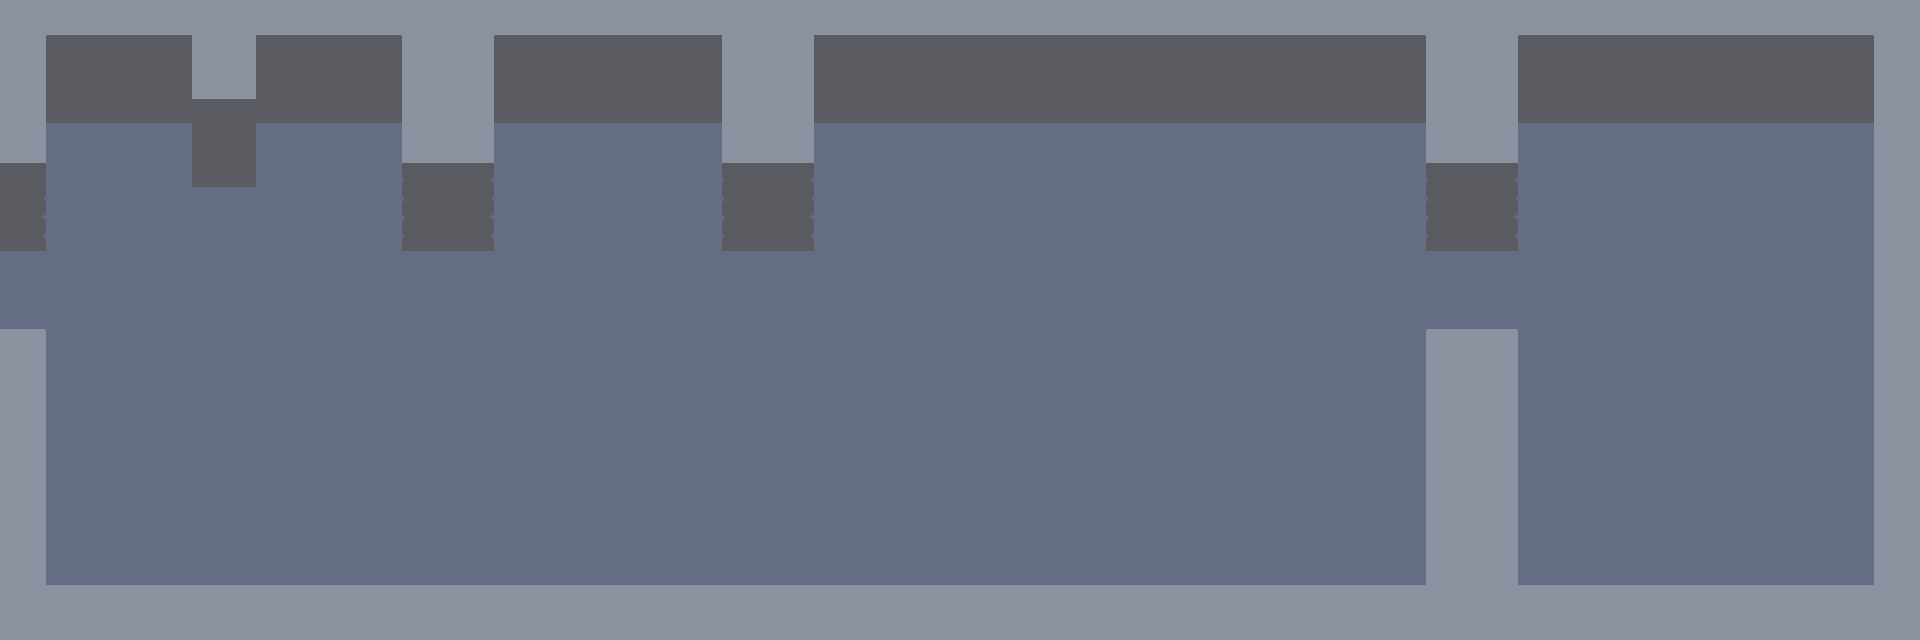
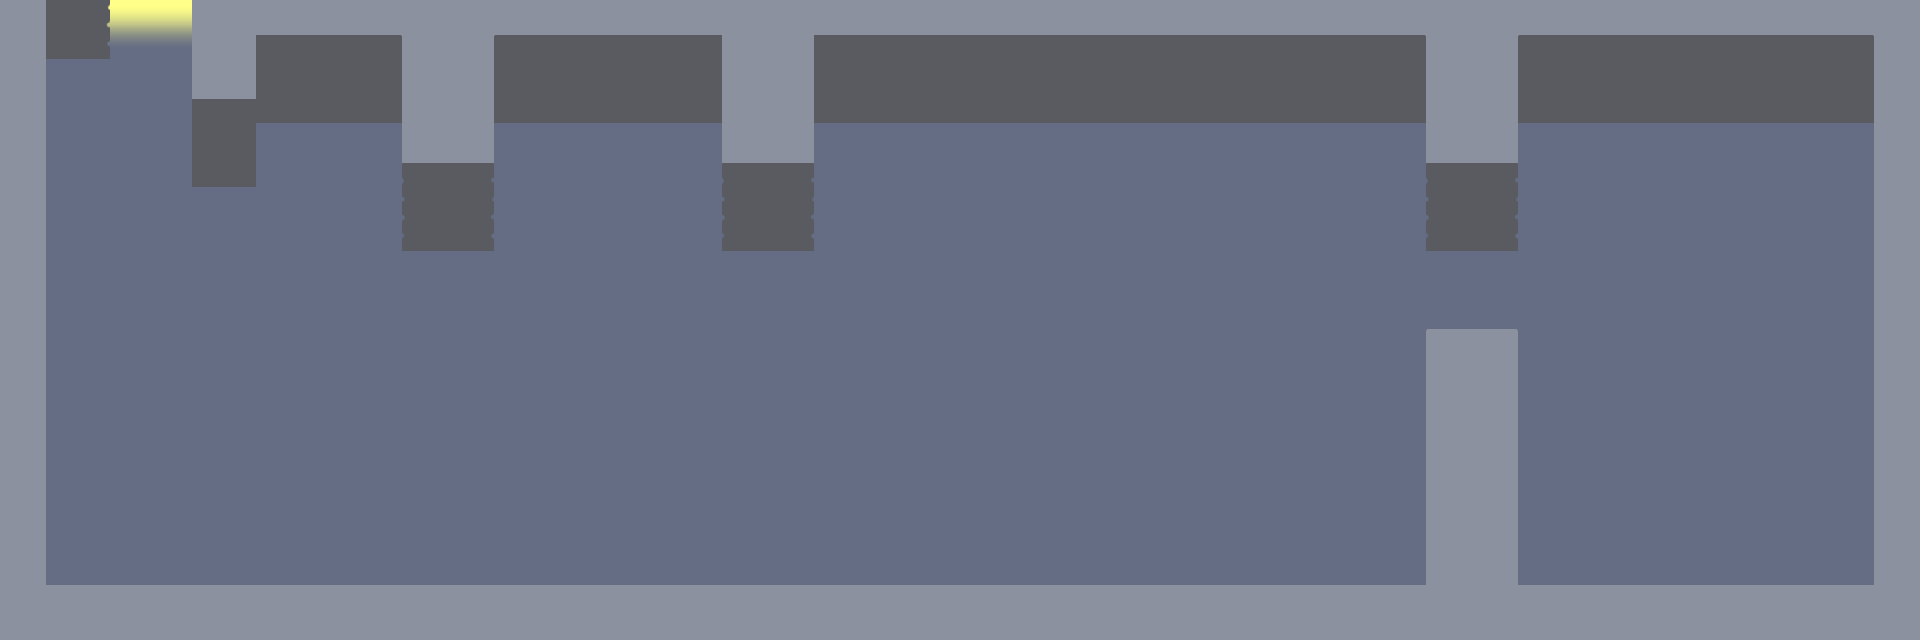
finally adding content

Changed region(s): [[0.0, 0.0, 0.125, 0.2188], [0.0, 0.25, 0.0312, 0.5312]]

diff --git a/scripts/main.js b/scripts/main.js
@@ -620,22 +620,39 @@ Menu.prototype.update_choice = function() {
 function Monster(name, level) {
   this.name = enemies[name].name;
   this.level = level;
-  this.maxhp = enemies[name].hp;
+  this.max_hp = enemies[name].hp;
   this.hp = enemies[name].hp;
   this.speed = enemies[name].speed;
   this.atk = enemies[name].atk;
   this.def = enemies[name].def;
-  this.atk_mul = 1;
-  this.def_mul = 1;
+  this.atk_mul = 0;
+  this.def_mul = 0;
   this.image = new Img(0, 0, spr[enemies[name].image]);
   this.damage = function (amount) {
     this.hp -= amount;
-    if (this.hp > this.maxhp) this.hp = this.maxhp;
+    if (this.hp > this.max_hp) this.hp = this.max_hp;
     if (this.hp > 0) return false;
     this.hp = 0;
     return true;
   }
   this.moves = enemies[name].moves;
+  this.hp_text = new Text(0, 0, "");
+  this.stat_text = new Text(0, 0, "");
+}
+Monster.prototype.draw = function(is_enemy) {
+  this.image.draw();
+  this.hp_text.text = `HP: ${this.hp}/${this.max_hp}`;
+  this.hp_text.draw();
+  // hp bar
+  let _percent = this.hp / this.max_hp;
+  room.ctx.fillStyle = `rgb(${(1 - _percent) * 255}, ${_percent * 255}, 0)`;
+  if (is_enemy) room.ctx.fillRect(XSIZE - 220, 40, _percent * 200, 20);
+  else room.ctx.fillRect(20, 190, _percent * 200, 20);
+  // stat boosts
+  this.stat_text.text = "";
+  if (this.atk_mul) this.stat_text.text += `Atk + ${this.atk_mul}`;
+  if (this.def_mul) this.stat_text.text += `Def + ${this.def_mul}`;
+  this.stat_text.draw();
 }
 
 function BattleUi(leader, enemy) {
@@ -646,24 +663,42 @@ function BattleUi(leader, enemy) {
   this.leader.image.y = 230;
   this.enemy.image.x = 500;
   this.enemy.image.y = 80;
-  this.leaderhp = new Text(40, 160, "HP:")
-  this.enemyhp = new Text(480, 10, "HP:")
+  this.leader.hp_text.x = 40;
+  this.leader.hp_text.y = 160;
+  this.enemy.hp_text.x = 480;
+  this.enemy.hp_text.y = 10;
+  this.leader.stat_text.x = 150;
+  this.leader.stat_text.y = 220;
+  this.enemy.stat_text.x = 400;
+  this.enemy.stat_text.y = 90;
+  // establish previous moves, dialogue after win, dialogue after loss
+  this.prev_moves = [];
+  this.save_dialogue = [];
+  this.loss_label = [];
 }
 BattleUi.prototype.draw = function() {
-  this.enemy.image.draw();
-  this.leader.image.draw();
-  // hp ratio
-  this.leaderhp.text = `HP: ${this.leader.hp}/${this.leader.maxhp}`
-  this.enemyhp.text = `HP: ${this.enemy.hp}/${this.enemy.maxhp}`
-  this.leaderhp.draw();
-  this.enemyhp.draw();
-  // hp bars
-  let _percent = this.enemy.hp / this.enemy.maxhp;
-  room.ctx.fillStyle = `rgb(${(1 - _percent) * 255}, ${_percent * 255}, 0)`;
-  room.ctx.fillRect(XSIZE - 220, 40, _percent * 200, 20);
-  _percent = this.leader.hp / this.leader.maxhp;
-  room.ctx.fillStyle = `rgb(${(1 - _percent) * 255}, ${_percent * 255}, 0)`;
-  room.ctx.fillRect(20, 190, _percent * 200, 20);
+  this.leader.draw();
+  this.enemy.draw(true);
+}
+BattleUi.prototype.check_prev = function(move) {
+  let _len = this.prev_moves.length;
+  if (_len > 1) {
+    if (this.prev_moves[_len - 1] == this.prev_moves[_len - 2]) {
+      if (this.prev_moves[_len - 1] == move.name) {
+        return true
+      }
+    }
+  }
+  return false
+}
+BattleUi.prototype.calc_damage = function(att, opp, dmg) {
+  if (dmg < 0) return dmg / 100 * opp.hp;
+  return Math.max(1, Math.round(
+    dmg / 100 * (
+      att.atk * (1 + att.atk_mul / 10) -
+      opp.def * (1 + opp.def_mul / 10) / 2
+    )
+  ));
 }
 
 function spawn_npc(npc, solid = true) {

diff --git a/scripts/enemy.js b/scripts/enemy.js
@@ -1,1 +1,1 @@
-var enemies = {"mika_normal":{"name":"Mika","image":"mika","moves":[{"name":"Sword Swing","power":"20","effects":[{"template":"Mika attacks ${_enemy}!"},{"damage":20}],"description":"Slash at the enemy."},{"name":"Kick","power":"40","effects":[{"template":"Mika kicks ${_enemy}!"},{"damage":40,"pause":0},"Mika is damaged by recoil!",{"damage":10,"target":true}],"description":"Kick the opponent."},{"name":"Inner Calm","power":0,"effects":["Mika focuses and becomes calm.",{"statboost":"def_mul","relative":true,"value":2}],"description":"The eye of the hurricane."}],"hp":60,"speed":50,"atk":70,"def":40},"crowley":{"name":"Crowley","image":"crowley","moves":[{"name":"Regen","power":"[Healing]","effects":["Crowley uses vampire regeneration powers.",{"transition":"timewarp","duration":0},{"pause":50},{"damage":-20,"target":true,"pause":0},{"pause":50},"Crowley has recovered HP!"],"description":"Heals self."},{"name":"Sword Slash","power":"40","effects":[{"template":"Crowley slashes at ${_enemy}."},{"damage":40,"pause":0,"target":false}],"description":"Slice enemies with a sword."},{"name":"Bloodthirsty Sword","power":"-","effects":["Crowley commands his sword to drink his blood.",{"statboost":"atk_mul","relative":true,"value":1},{"damage":10,"target":true},"Crowley's attack stat increased!"],"description":"Consume HP to boost Attack."}],"speed":90,"hp":70,"atk":60,"def":30}}
+var enemies = {"mika_normal":{"name":"Mika","image":"mika","moves":[{"name":"Sword Swing","power":"20","effects":[{"template":"Mika attacks ${_enemy}!"},{"damage":20}],"description":"Slash at the enemy."},{"name":"Kick","power":"40","effects":[{"template":"Mika kicks ${_enemy}!"},{"damage":40,"pause":0},"Mika is damaged by recoil!",{"damage":10,"target":true}],"description":"Kick the opponent."},{"name":"Inner Calm","power":0,"effects":["Mika focuses and becomes calm.",{"statboost":"def_mul","relative":true,"value":2}],"description":"The eye of the hurricane."}],"hp":50,"speed":50,"atk":70,"def":60},"crowley":{"name":"Crowley","image":"crowley","moves":[{"name":"Regen","power":"[Healing]","effects":["Crowley uses vampire regeneration powers.",{"transition":"timewarp","duration":0},{"pause":50},{"damage":-20,"target":true,"pause":0},{"pause":50},"Crowley has recovered HP!"],"description":"Heals self."},{"name":"Sword Slash","power":"40","effects":[{"template":"Crowley slashes at ${_enemy}."},{"damage":40,"pause":0,"target":false}],"description":"Slice enemies with a sword."},{"name":"Bloodthirsty Sword","power":"-","effects":["Crowley commands his sword to drink his blood.",{"statboost":"atk_mul","relative":true,"value":1},{"damage":10,"target":true},"Crowley's attack stat increased!"],"description":"Consume HP to boost Attack."}],"speed":90,"hp":70,"atk":60,"def":40},"ferid":{"name":"Ferid","image":"menu_indicator","moves":[{"name":"Regen","power":"[Healing]","effects":["Ferid heals himself with vampiric regeneration.",{"pause":40},{"transition":"time_warp","duration":80},{"pause":40},{"damage":-20,"pause":0,"target":true},""],"description":"Recovery."},{"name":"Bloodsucking Sword","power":"-","effects":["Ferid's sword consumes some of his blood.",{"statboost":"atk_mul","relative":true,"value":1},{"damage":-10,"pause":0,"target":true}],"description":"His weapon gains power from drinking blood."}],"hp":50,"speed":90,"def":50,"atk":70}}

diff --git a/scripts/room.js b/scripts/room.js
@@ -1,1 +1,1 @@
-var maps = {"Title":{"map":[[]],"npcs":[],"doors":[],"background":"block"},"JIDA":{"map":[[0,0,0,0,0,0,0,0,0,0,0,0,0,0,0,0,0,0,0,0,0,0,0,0,0,0,0,0,0,0],[0,1,1,0,1,1,0,0,1,1,1,0,0,1,1,1,1,1,1,1,1,1,0,0,1,1,1,1,1,0],[1,0,0,1,0,0,1,1,0,0,0,1,1,0,0,0,0,0,0,0,0,0,1,1,0,0,0,0,0,1],[1,0,0,0,0,0,1,1,0,0,0,1,1,0,0,0,0,0,0,0,0,0,1,1,0,0,0,0,0,1],[0,0,0,0,0,0,0,0,0,0,0,0,0,0,0,0,0,0,0,0,0,0,0,0,0,0,0,0,0,1],[1,0,0,0,0,0,0,0,0,0,0,0,0,0,0,0,0,0,0,0,0,0,1,1,0,0,0,0,0,1],[1,0,0,0,0,0,0,0,0,0,0,0,0,0,0,0,0,0,0,0,0,0,1,1,0,0,0,0,0,1],[1,0,0,0,0,0,0,0,0,0,0,0,0,0,0,0,0,0,0,0,0,0,1,1,0,0,0,0,0,1],[1,0,0,0,0,0,0,0,0,0,0,0,0,0,0,0,0,0,0,0,0,0,1,1,0,0,0,0,0,1],[0,1,1,1,1,1,1,1,1,1,1,1,1,1,1,1,1,1,1,1,1,1,0,0,1,1,1,1,1,0]],"background":"map_JIDA","npcs":[],"doors":[{"x":0,"y":4,"toX":4,"toY":3,"toMap":"Title"}],"spawnx":1,"spawny":4}}
+var maps = {"Title":{"map":[[]],"npcs":[],"doors":[],"background":"block"},"JIDA":{"map":[[0,1,0,1,0,0,0,0,0,0,0,0,0,0,0,0,0,0,0,0,0,0,0,0,0,0,0,0,0,0],[1,0,0,1,1,1,0,0,1,1,1,0,0,1,1,1,1,1,1,1,1,1,0,0,1,1,1,1,1,0],[1,0,0,1,0,0,1,1,0,0,0,1,1,0,0,0,0,0,0,0,0,0,1,1,0,0,0,0,0,1],[1,0,0,0,0,0,1,1,0,0,0,1,1,0,0,0,0,0,0,0,0,0,1,1,0,0,0,0,0,1],[1,0,0,0,0,0,0,0,0,0,0,0,0,0,0,0,0,0,0,0,0,0,0,0,0,0,0,0,0,1],[1,0,0,0,0,0,0,0,0,0,0,0,0,0,0,0,0,0,0,0,0,0,1,1,0,0,0,0,0,1],[1,0,0,0,0,0,0,0,0,0,0,0,0,0,0,0,0,0,0,0,0,0,1,1,0,0,0,0,0,1],[1,0,0,0,0,0,0,0,0,0,0,0,0,0,0,0,0,0,0,0,0,0,1,1,0,0,0,0,0,1],[1,0,0,0,0,0,0,0,0,0,0,0,0,0,0,0,0,0,0,0,0,0,1,1,0,0,0,0,0,1],[0,1,1,1,1,1,1,1,1,1,1,1,1,1,1,1,1,1,1,1,1,1,0,0,1,1,1,1,1,0]],"background":"map_JIDA","npcs":[{"name":"Ferid","x":5,"y":2,"labels":{"Main":["What a grand opportunity",""],"After":["Fight again?",{"menu":"text","choices":[["Yes","Yes"],["No","No"]]}],"Yes":["Yes, yes."],"No":["What a shame."]},"image":"menu_indicator","spawn_condition":""},{"name":"Sayuri","x":11,"y":4,"labels":{"Main":[{"move":1,"dir":"l","run":true,"teleport":false}]},"image":"sayuri"}],"doors":[{"x":2,"y":0,"toX":3,"toY":18,"toMap":"Path"}],"spawnx":26,"spawny":3},"Path":{"map":[[0,0,0,0,0,0,0,1,0,0,0,0,1,0,1,0,0,0,0,0],[0,0,0,1,1,1,1,0,1,1,1,1,1,0,1,0,0,0,0,0],[0,0,1,0,0,0,0,0,0,0,0,0,0,0,0,1,0,0,0,0],[0,0,1,0,0,0,0,0,0,0,0,0,0,0,0,0,1,0,0,0],[0,1,0,0,0,0,0,0,0,0,0,0,0,0,0,0,1,0,0,0],[1,0,0,0,0,0,0,0,0,0,0,0,0,0,0,0,1,0,0,0],[1,0,0,0,0,0,0,0,0,0,0,0,0,0,0,0,0,1,0,0],[1,0,0,0,0,0,0,0,0,0,0,0,0,0,0,0,0,1,0,0],[1,0,0,0,0,0,0,0,0,0,0,0,0,0,0,0,0,1,1,0],[0,1,0,0,0,0,0,0,0,0,0,0,0,0,0,0,0,0,0,1],[0,0,1,1,1,0,1,1,0,0,0,0,0,0,0,0,0,0,0,1],[0,0,0,0,0,1,0,1,0,0,0,0,0,0,0,0,0,0,0,1],[0,0,0,0,0,0,0,1,0,0,0,0,0,0,0,0,0,0,0,1],[0,0,1,0,0,0,1,1,0,0,0,0,0,0,0,0,0,0,0,1],[0,1,0,1,1,1,0,0,0,0,0,0,0,0,0,0,0,0,0,1],[1,0,0,0,0,0,0,0,0,0,0,0,0,0,0,0,0,0,0,1],[1,0,0,0,0,0,0,0,0,0,0,0,0,0,0,0,0,0,0,1],[1,0,0,0,0,0,0,0,0,0,0,0,0,0,0,0,0,0,0,1],[1,0,0,0,0,0,0,0,0,0,0,0,0,0,0,0,0,0,0,1],[0,1,1,0,1,1,1,1,1,1,1,1,1,1,1,1,1,1,1,1]],"background":"map_Path","npcs":[],"doors":[{"x":3,"y":19,"toX":2,"toY":1,"toMap":"JIDA"}]}}

diff --git a/scripts/talking.js b/scripts/talking.js
@@ -388,9 +388,15 @@ bt.Next = function() {
                 [user_vars._enemy, user_vars._leader] = [user_vars._leader, user_vars._enemy];
                 user_vars._turn = "the opponent's turn";
                 // enemy does random move
-                let _enemy_move = battle_data.enemy.moves[battle_data.enemy.moves.length * Math.random() | 0];
+                let _random = battle_data.enemy.moves.length * Math.random() |0;
+                if (battle_data.check_prev(battle_data.enemy.moves[_random])) {
+                  _random++;
+                }
+                if (_random >= battle_data.enemy.moves.length) _random = 0;
+                let _enemy_move = battle_data.enemy.moves[_random];
+                battle_data.prev_moves.push(_enemy_move.name);
                 bt.Insert(..._enemy_move.effects);
-                console.log(_enemy_move.name)
+                console.log("Opponent Move: " + _enemy_move.name)
               },
               () => {
                 [user_vars._enemy, user_vars._leader] = [user_vars._leader, user_vars._enemy];
@@ -401,8 +407,7 @@ bt.Next = function() {
           ];
         });
         bt.Insert(
-          {template:"A wild ${_enemy} appeared!"},
-          {template:"Go! ${_leader}!"},
+          {template:"You are challeneged by ${_enemy}!"},
           {template:"What will ${_leader} do?"},
           {menu: text, choices: _choices}
         );
@@ -430,10 +435,10 @@ bt.Next = function() {
         // hit self + your turn, or not hit self + opp turn
         if ((command.target && user_vars._turn == "your turn")
           || (!command.target && user_vars._turn != "your turn")) {
-          let _damage = command.damage / 100 * battle_data.enemy.atk * battle_data.enemy.atk_mul - battle_data.leader.def * battle_data.leader.def_mul * command.damage / 200;
+          let _damage = battle_data.calc_damage(battle_data.enemy, battle_data.leader, command.damage);
           _leader_ko = battle_data.leader.damage(_damage)
         } else {
-          let _damage = command.damage / 100 * battle_data.leader.atk * battle_data.leader.atk_mul - battle_data.enemy.def * battle_data.enemy.def_mul * command.damage / 200;
+          let _damage = battle_data.calc_damage(battle_data.leader, battle_data.enemy, command.damage);
           _enemy_ko = battle_data.enemy.damage(_damage)
         }
         if (_leader_ko) {

diff --git a/scripts/object.js b/scripts/object.js
@@ -71,21 +71,29 @@ label.main_menu = [
 label.serapoke_intro = [
 {change:background},
 {change:text, x:80, y:150},
-"Thank you for working with me! Definitely@can't do this on my own and I appreciate you a ton.",
-"I hope you have fun too!",
+"In this world, where there are many dangers...@                                        @...JIDA keeps the world at peace.",
 {transition:"fade"},
 {pause:50},
 {jump:"serapoke_init"}
 ]
 label.serapoke_init = [
 {change:text, x:80, y:400},
-{move:'player', teleport:true, x:17, y:14},
 ()=>{
   player.visible = true;
   bt.adv.box.visible = true;
   inventory.boots = items.boots;
 },
-{room:"JIDA"}
+{room:"JIDA"},
+{name:"???"},
+"There you are, Mika!",
+{hide:"box"},
+{move:1, dir:"r", run:true},
+{pause:40},
+{move:1, dir:"s"},
+{show:"box"},
+{name:"Sayuri"},
+"I see you're dressed for your mission already.",
+"As long as you keep your head down, the vampires@won't be suspicious.",
 ]
 
 label.serapoke_load = [

diff --git a/builder/src/components/MonsterEditor.vue b/builder/src/components/MonsterEditor.vue
@@ -73,6 +73,7 @@
                     <v-progress-circular indeterminate />
                   </template>
                 </v-img>
+                <p>Stat total: {{ statTotal }}</p>
               </v-col>
             </v-row>
             <v-subheader style="position:relative">
@@ -146,6 +147,16 @@ export default {
       deleting: -1,
       prev: '',
       sorting: 'Default'
+    }
+  },
+  computed: {
+    statTotal() {
+      return (
+        this.editingEnemy.atk +
+        this.editingEnemy.def +
+        this.editingEnemy.speed +
+        this.editingEnemy.hp
+      )
     }
   },
   methods: {

diff --git a/scripts/sprite.js b/scripts/sprite.js
@@ -1,1 +1,1 @@
-var SPRITES = {"block":"images/block.png","font":"images/umeplus_gothic_basic.png","menu_indicator":"images/indicator.png","box":"images/box.png","map_JIDA":"maps/jida.png","mika":"images/mika.png","yuu":"images/yuu.png","crowley":"images/crowley.png","sayuri":"images/sayuri.png"}
+var SPRITES = {"block":"images/block.png","font":"images/umeplus_gothic_basic.png","menu_indicator":"images/indicator.png","box":"images/box.png","map_JIDA":"maps/jida.png","mika":"images/mika.png","yuu":"images/yuu.png","crowley":"images/crowley.png","sayuri":"images/sayuri.png","map_Path":"maps/map_Path.png"}

diff --git a/builder/src/App.vue b/builder/src/App.vue
@@ -75,6 +75,7 @@
         @open-monster-editor="currentEditor = 'monster-editor'"
         @add-map="addMap"
         @add-sprite="addSprite"
+        @set-npc="selectedNPC = $event"
       />
       <v-snackbar
         v-model="notifVisible"
